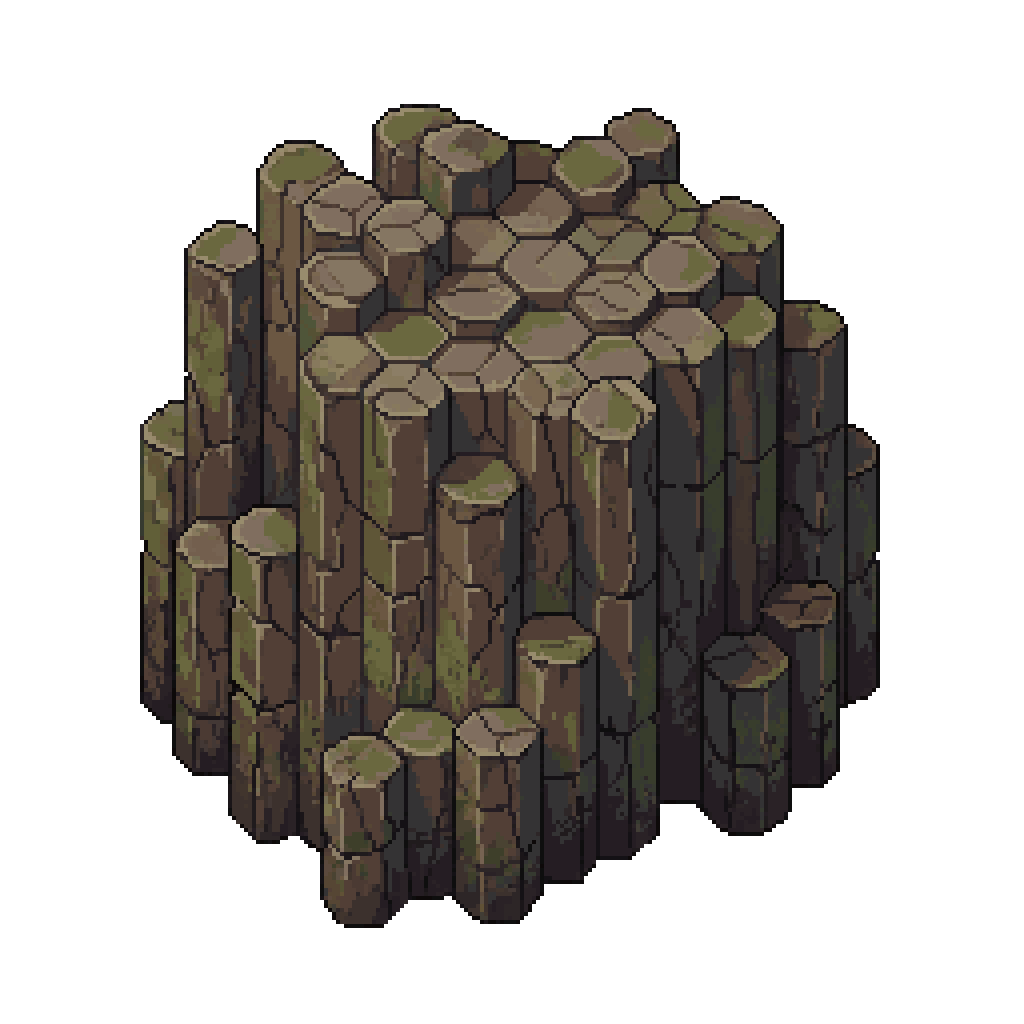
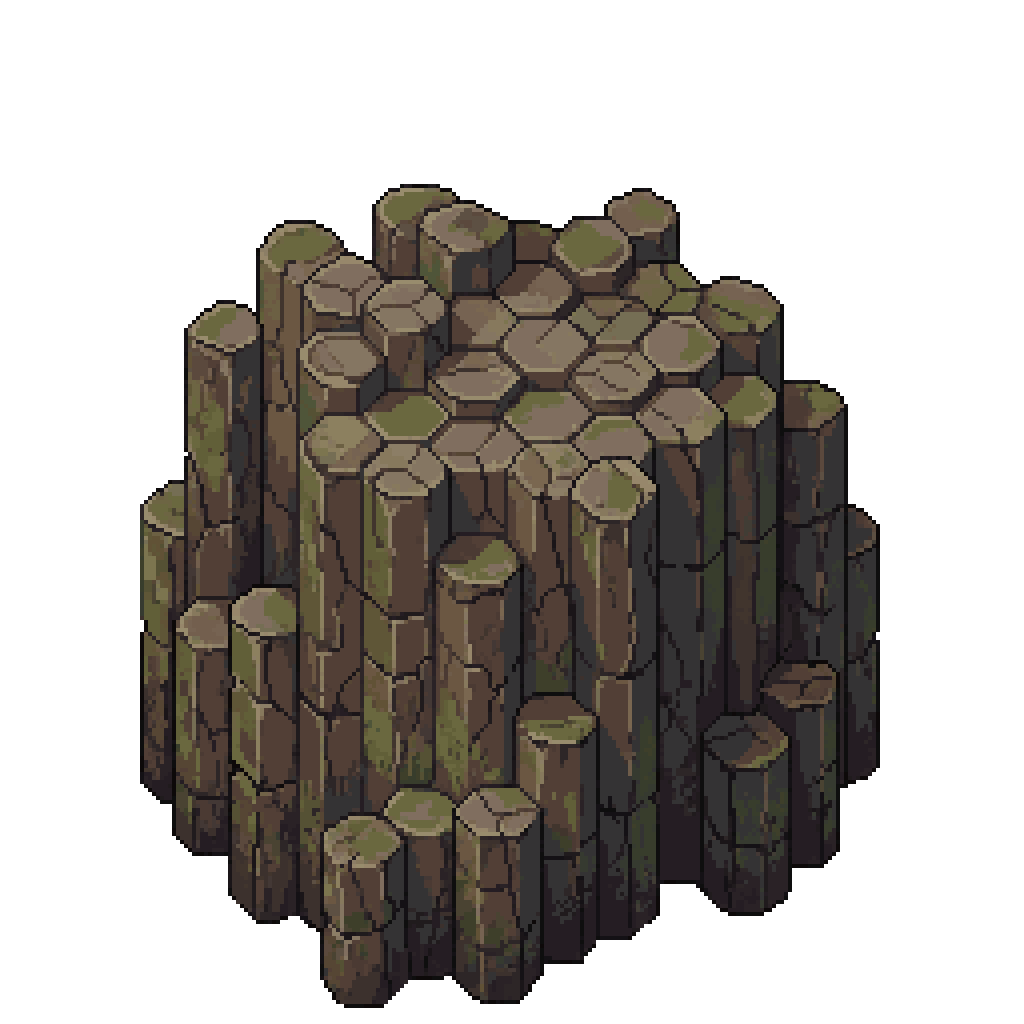
tweak values

diff --git a/client/src/utils/renderers/basaltColumnRenderingUtils.ts b/client/src/utils/renderers/basaltColumnRenderingUtils.ts
@@ -1,6 +1,5 @@
 import { BasaltColumn } from '../../generated'; // Import generated type
 import basaltColumn1Image from '../../assets/doodads/basalt_column_new.png'; // Type1
-import basaltColumn2Image from '../../assets/doodads/basalt_column2_new.png'; // Type2
 import basaltColumn3Image from '../../assets/doodads/basalt_column3_new.png'; // Type3
 import { applyStandardDropShadow, drawDynamicGroundShadow } from './shadowUtils';
 import { GroundEntityConfig, renderConfiguredGroundEntity } from './genericGroundRenderer'; // Import generic renderer
@@ -13,7 +12,6 @@ export const BASALT_COLUMN_HEIGHT = 540; // Tall vertical rock formations (1.5x 
 // --- Basalt Column Variant Images Array ---
 const BASALT_COLUMN_VARIANT_IMAGES = [
     basaltColumn1Image,    // Type1
-    basaltColumn2Image,    // Type2
     basaltColumn3Image,    // Type3
 ];
 
@@ -21,8 +19,7 @@ const BASALT_COLUMN_VARIANT_IMAGES = [
 const basaltColumnConfig: GroundEntityConfig<BasaltColumn> = {
     getImageSource: (entity) => {
         // Select basalt column variant based on entity.columnType
-        const variantIndex = entity.columnType.tag === 'Type1' ? 0 :
-                            entity.columnType.tag === 'Type2' ? 1 : 2;
+        const variantIndex = entity.columnType.tag === 'Type1' ? 0 : 1;
         return BASALT_COLUMN_VARIANT_IMAGES[variantIndex];
     },
 

diff --git a/client/src/utils/clientCollision.ts b/client/src/utils/clientCollision.ts
@@ -724,7 +724,7 @@ const COLLISION_RADII = {
   BARREL: 25, // Smaller barrel collision radius for better accuracy
   SEA_STACK: 60, // Base radius for sea stacks - reduced significantly for smoother collision like trees
   HOMESTEAD_HEARTH: 55, // Homestead hearth collision radius (matches server-side HEARTH_COLLISION_RADIUS)
-  BASALT_COLUMN: 35, // Basalt column collision radius (matches server-side BASALT_COLUMN_RADIUS)
+  BASALT_COLUMN: 35, // Basalt column collision radius
 } as const;
 
 // Collision offsets for sprite positioning - align with visual sprite base
@@ -739,7 +739,7 @@ const COLLISION_OFFSETS = {
   BARREL: { x: 0, y: -48 }, // Barrel collision at visual center (matches server)
   SEA_STACK: { x: 0, y: -120 }, // Offset up to position collision higher on the structure
   HOMESTEAD_HEARTH: { x: 0, y: -72.5 }, // Homestead hearth collision offset (matches server-side HEARTH_COLLISION_Y_OFFSET)
-  BASALT_COLUMN: { x: 0, y: -40 }, // Basalt column collision offset (matches server-side BASALT_COLUMN_COLLISION_Y_OFFSET)
+  BASALT_COLUMN: { x: 0, y: -40 }, // Basalt column collision offset
 } as const;
 
 // Shelter AABB dimensions (must match server-side constants in shelter.rs)

diff --git a/client/src/utils/renderers/seaStackRenderingUtils.ts b/client/src/utils/renderers/seaStackRenderingUtils.ts
@@ -655,10 +655,11 @@ export function renderSeaStackBottomOnly(
   seaStack: any, // Server-provided sea stack entity
   doodadImages: Map<string, HTMLImageElement> | null,
   cycleProgress?: number, // Day/night cycle for dynamic shadows
-  currentTimeMs?: number // Current time for animations
+  currentTimeMs?: number, // Current time for animations
+  localPlayerPosition?: { x: number; y: number } | null // Player position for transparency logic
 ): void {
   // Render only the bottom half, skipping shadow (already drawn separately)
-  renderSeaStackSingle(ctx, seaStack, doodadImages, cycleProgress, currentTimeMs, 'bottom');
+  renderSeaStackSingle(ctx, seaStack, doodadImages, cycleProgress, currentTimeMs, 'bottom', localPlayerPosition);
 }
 
 /**

diff --git a/client/src/components/GameCanvas.tsx b/client/src/components/GameCanvas.tsx
@@ -1719,8 +1719,9 @@ const GameCanvas: React.FC<GameCanvasProps> = ({
     // --- END SEA STACK SHADOWS ---
 
     // --- STEP 0.5: Render sea stack BOTTOM halves WITHOUT shadows (underwater rock texture) ---
+    const localPlayerPositionForSeaStacks = currentPredictedPosition ?? (localPlayer ? { x: localPlayer.positionX, y: localPlayer.positionY } : null);
     visibleSeaStacks.forEach(seaStack => {
-      renderSeaStackBottomOnly(ctx, seaStack, doodadImagesRef.current, currentCycleProgress, now_ms);
+      renderSeaStackBottomOnly(ctx, seaStack, doodadImagesRef.current, currentCycleProgress, now_ms, localPlayerPositionForSeaStacks);
     });
     // --- END SEA STACK BOTTOMS ---
 

diff --git a/server/src/fumarole.rs b/server/src/fumarole.rs
@@ -51,7 +51,7 @@ pub(crate) const MIN_FUMAROLE_DISTANCE_SQ: f32 = MIN_FUMAROLE_DISTANCE_PX * MIN_
 // Container constants
 pub const NUM_FUMAROLE_SLOTS: usize = 6; // 6 slots for items to incinerate
 const FUMAROLE_PROCESS_INTERVAL_SECS: u64 = 1; // Process every 1 second (for burn damage)
-const FUMAROLE_ITEM_CONSUMPTION_TICKS: u64 = 5; // Consume 1 item every 5 ticks (5 seconds, like Rust recycler)
+const FUMAROLE_ITEM_CONSUMPTION_TICKS: u64 = 2; // Consume 1 item every 2 ticks (2 seconds, doubled speed)
 const CHARCOAL_PRODUCTION_AMOUNT: u32 = 3; // Produce 3 charcoal per item (rewarding for PvP hotspot)
 
 /// --- Fumarole Data Structure ---
@@ -477,7 +477,7 @@ pub fn process_fumarole_logic_scheduled(ctx: &ReducerContext, schedule_args: Fum
     const FUMAROLE_DAMAGE_RADIUS_SQUARED: f32 = 1600.0; // Same as campfire
     const FUMAROLE_DAMAGE_PER_TICK: f32 = 5.0; // Same as campfire
     const FUMAROLE_DAMAGE_EFFECT_DURATION_SECONDS: u64 = 3; // Same as campfire
-    const FUMAROLE_BURN_TICK_INTERVAL_SECONDS: f32 = 2.0; // Same as campfire
+    const FUMAROLE_BURN_TICK_INTERVAL_SECONDS: f32 = 1.0; // Doubled speed (was 2.0)
     const VISUAL_CENTER_Y_OFFSET: f32 = 42.0; // Same as campfire
     
     for player_entity in ctx.db.player().iter() {
@@ -512,7 +512,7 @@ pub fn process_fumarole_logic_scheduled(ctx: &ReducerContext, schedule_args: Fum
     fumarole.consumption_tick_counter += 1;
     made_changes = true;
     
-    // Only consume items every FUMAROLE_ITEM_CONSUMPTION_TICKS (5 seconds, like Rust recycler)
+    // Only consume items every FUMAROLE_ITEM_CONSUMPTION_TICKS (2 seconds, doubled speed)
     let should_consume_items = fumarole.consumption_tick_counter >= FUMAROLE_ITEM_CONSUMPTION_TICKS;
     
     if should_consume_items {

diff --git a/server/src/basalt_column.rs b/server/src/basalt_column.rs
@@ -5,7 +5,7 @@ use crate::PLAYER_RADIUS;
 
 // Collision constants - basalt columns are solid obstacles
 pub(crate) const BASALT_COLUMN_RADIUS: f32 = 35.0;
-pub(crate) const BASALT_COLUMN_COLLISION_Y_OFFSET: f32 = 40.0; // Offset for visual sprite positioning
+pub(crate) const BASALT_COLUMN_COLLISION_Y_OFFSET: f32 = 40.0;
 pub(crate) const PLAYER_BASALT_COLUMN_COLLISION_DISTANCE_SQUARED: f32 = 
     (PLAYER_RADIUS + BASALT_COLUMN_RADIUS) * (PLAYER_RADIUS + BASALT_COLUMN_RADIUS);
 
@@ -19,20 +19,18 @@ pub(crate) const MIN_BASALT_COLUMN_TO_FUMAROLE_DISTANCE_SQ: f32 =
     MIN_BASALT_COLUMN_TO_FUMAROLE_DISTANCE_PX * MIN_BASALT_COLUMN_TO_FUMAROLE_DISTANCE_PX;
 
 /// --- Basalt Column Type Enum ---
-/// Three visual variants of basalt columns (same functionality, different graphics)
+/// Two visual variants of basalt columns (same functionality, different graphics)
 #[derive(SpacetimeType, Clone, Copy, Debug, PartialEq)]
 pub enum BasaltColumnType {
     Type1,
-    Type2,
     Type3,
 }
 
 impl BasaltColumnType {
     /// Returns a random basalt column type
     pub fn random(rng: &mut impl rand::Rng) -> Self {
-        match rng.gen_range(0..3) {
+        match rng.gen_range(0..2) {
             0 => BasaltColumnType::Type1,
-            1 => BasaltColumnType::Type2,
             _ => BasaltColumnType::Type3,
         }
     }
@@ -51,7 +49,7 @@ pub struct BasaltColumn {
     pub pos_y: f32,
     #[index(btree)]
     pub chunk_index: u32, // For spatial filtering/queries
-    pub column_type: BasaltColumnType, // Visual variant (Type1, Type2, or Type3)
+    pub column_type: BasaltColumnType, // Visual variant (Type1 or Type3)
 }
 
 impl BasaltColumn {

diff --git a/server/src/projectile.rs b/server/src/projectile.rs
@@ -1126,9 +1126,8 @@ pub fn update_projectiles(ctx: &ReducerContext, _args: ProjectileUpdateSchedule)
         for basalt in ctx.db.basalt_column().iter() {
             // Basalt columns are permanent obstacles (no health/respawn check needed)
             
-            // Basalt columns have a generous collision radius for projectiles
-            const PROJECTILE_BASALT_HIT_RADIUS: f32 = 35.0; // Match BASALT_COLUMN_RADIUS
-            const PROJECTILE_BASALT_Y_OFFSET: f32 = 40.0; // Match BASALT_COLUMN_COLLISION_Y_OFFSET
+            const PROJECTILE_BASALT_HIT_RADIUS: f32 = 35.0;
+            const PROJECTILE_BASALT_Y_OFFSET: f32 = 40.0;
             
             let basalt_hit_y = basalt.pos_y - PROJECTILE_BASALT_Y_OFFSET;
             

diff --git a/server/src/player_collision.rs b/server/src/player_collision.rs
@@ -242,8 +242,8 @@ pub fn calculate_slide_collision_with_grid(
                      }
                  }
             },
-            spatial_grid::EntityType::BasaltColumn(basalt_id) => {
-                 if let Some(basalt) = basalt_columns.id().find(basalt_id) {
+           spatial_grid::EntityType::BasaltColumn(basalt_id) => {
+                if let Some(basalt) = basalt_columns.id().find(basalt_id) {
                      let basalt_collision_y = basalt.pos_y - BASALT_COLUMN_COLLISION_Y_OFFSET;
                      let dx = final_x - basalt.pos_x;
                      let dy = final_y - basalt_collision_y;
